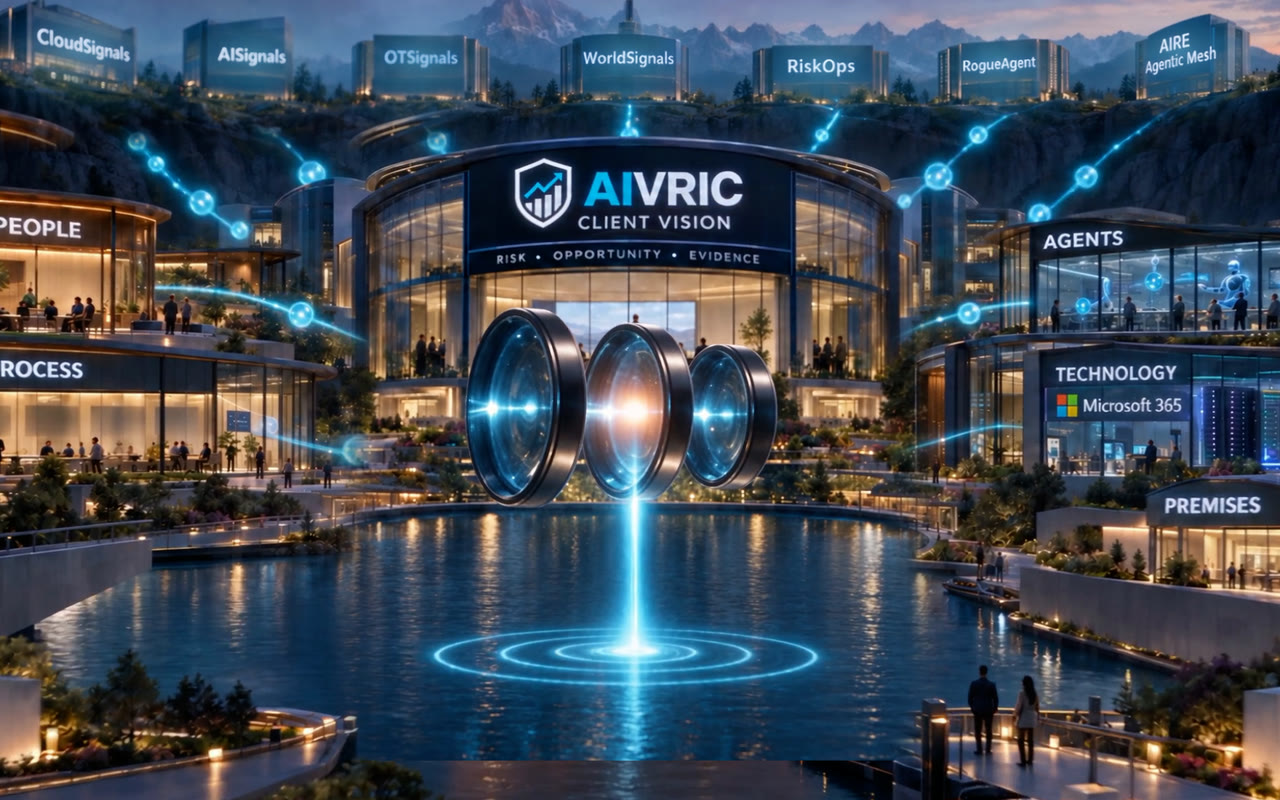
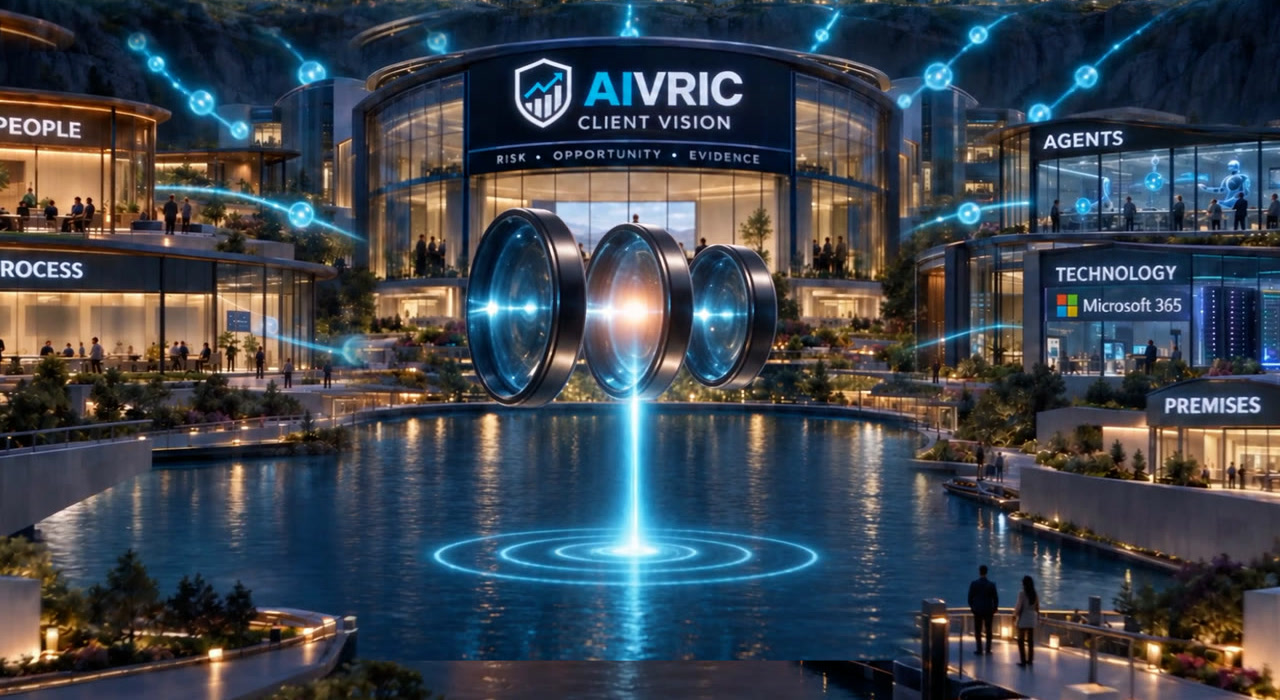
Hotfix: held names off four public surfaces: the /providers signal-city still loses its tower row (RogueAgent, OTSignals, WorldSignals); the Platform Guide FAQ's knowledge-base screenshot (RogueAgent, OTSignals, WorldSignals) removed; the Platform Guide overview's RogueAgent ASPM and Vision AI Optic

diff --git a/AiVRIC-UserGuide/platform-overview.html b/AiVRIC-UserGuide/platform-overview.html
@@ -55,7 +55,7 @@
         <a class="nav-link active" href="platform-overview.html">Platform Overview</a>
       </div>
       <div class="nav-section">
-        <p class="nav-label">CloudSignals+RiskOps</p>
+        <p class="nav-label">CloudSignals</p>
         <a class="nav-link" href="cloudsignals-riskops.html">Module Overview</a>
         <a class="nav-link" href="connectors.html">Connectors</a>
         <a class="nav-link" href="integrations.html">Integrations</a>
@@ -120,24 +120,16 @@
       <p>AiVRIC is composed of four interconnected modules deployed as containerized services on your Kubernetes cluster. All processing stays in your environment — no data leaves your control plane.</p>
       <div class="guide-grid">
         <div class="guide-card">
-          <h3>CloudSignals+RiskOps&trade;</h3>
+          <h3>CloudSignals</h3>
           <p>Continuous cloud posture monitoring, compliance automation, and AI-driven risk remediation across AWS, Azure, GCP, Kubernetes, and more.</p>
         </div>
         <div class="guide-card">
-          <h3>AI Signals&trade;</h3>
+          <h3>AISignals</h3>
           <p>Real-time detection of AI model misuse, shadow AI, prompt injection, PII leakage, and model drift across your AI workloads.</p>
         </div>
         <div class="guide-card">
           <h3>AIRE Agentic Mesh&trade;</h3>
           <p>Autonomous remediation engine that closes security gaps, raises tickets, and applies approved fixes without human handoff.</p>
-        </div>
-        <div class="guide-card">
-          <h3>RogueAgent ASPM&trade;</h3>
-          <p>Application Security Posture Management for agentic and AI-driven applications — tracks permissions, dependencies, and runtime behavior.</p>
-        </div>
-        <div class="guide-card">
-          <h3>Vision AI Optics&trade;</h3>
-          <p>AI/ML-powered threat intelligence and behavioral analytics that surface anomalies before they become incidents.</p>
         </div>
         <div class="guide-card">
           <h3>Shared Data Layer</h3>
@@ -147,10 +139,10 @@
 
       <!-- Screenshot: Live platform overview dashboard -->
       <figure class="ug-figure" onclick="openUgLightbox(this)" title="Click to expand">
-        <span class="ug-fig-chip"><i class="fas fa-circle" style="color:#2ee59d;"></i> CloudSignals+RiskOps — Live</span>
+        <span class="ug-fig-chip"><i class="fas fa-circle" style="color:#2ee59d;"></i> CloudSignals — Live</span>
         <span class="ug-fig-hint"><i class="fas fa-expand-alt"></i> Expand</span>
-        <img src="../academy/screenshots/overview-dashboard.png" alt="AiVRIC CloudSignals+RiskOps Command Center showing posture threat score, findings counts, threat map with global signal coverage, and control plane activity" loading="lazy">
-        <figcaption class="ug-figcaption"><strong>CloudSignals+RiskOps in operation</strong> — the module's command center shows the live threat score, active findings across all connected providers, threat map, and posture control plane panels updated every 24-hour scan cycle.</figcaption>
+        <img src="../academy/screenshots/overview-dashboard.png" alt="AiVRIC CloudSignals Command Center showing posture threat score, findings counts, threat map with global signal coverage, and control plane activity" loading="lazy">
+        <figcaption class="ug-figcaption"><strong>CloudSignals in operation</strong> — the module's command center shows the live threat score, active findings across all connected providers, threat map, and posture control plane panels updated every 24-hour scan cycle.</figcaption>
       </figure>
 
       <h2 id="connectors">Connectors</h2>
@@ -248,7 +240,7 @@
     (function(){
       var searchInput = document.getElementById('guide-search-input');
       var resultsBox  = document.getElementById('guide-search-results');
-      var pageIndex = [{"title": "Platform Guide Home", "url": "index.html"}, {"title": "Getting Started", "url": "getting-started.html"}, {"title": "Platform Overview", "url": "platform-overview.html"}, {"title": "CloudSignals+RiskOps Overview", "url": "cloudsignals-riskops.html"}, {"title": "Connectors", "url": "connectors.html"}, {"title": "Integrations", "url": "integrations.html"}, {"title": "Security & Trust", "url": "security-trust.html"}, {"title": "AI Governance", "url": "ai-governance.html"}, {"title": "Compliance Overview", "url": "compliance.html"}, {"title": "FAQ & Support", "url": "faq.html"}, {"title": "Insider Early Access", "url": "insider-early-access.html"}, {"title": "Cloud Security", "url": "cloud-security.html"}, {"title": "Network Security", "url": "network-security.html"}, {"title": "Endpoint Security", "url": "endpoint-security.html"}, {"title": "Identity & Access Control", "url": "identification-authorization-control.html"}, {"title": "Data Classification", "url": "data-classification-handling.html"}, {"title": "Data Privacy", "url": "data-privacy.html"}, {"title": "Incident Response", "url": "incident-response-operations.html"}, {"title": "Threat Management", "url": "threat-management.html"}, {"title": "Vulnerability & Patch Mgmt", "url": "vulnerability-patch-management.html"}, {"title": "Security Operations", "url": "security-operations.html"}, {"title": "Risk Assessment", "url": "risk-assessment.html"}, {"title": "Third-Party Management", "url": "third-party-management.html"}, {"title": "AI & Autonomous Technologies", "url": "ai-autonomous-technologies.html"}, {"title": "Secure Engineering Architecture", "url": "secure-engineering-architecture.html"}, {"title": "Web Security", "url": "web-security.html"}, {"title": "Asset Management", "url": "asset-management.html"}, {"title": "Cryptographic Operations", "url": "cryptographic-operations.html"}, {"title": "Information Assurance", "url": "information-assurance.html"}, {"title": "Acceptable Use Policy", "url": "acceptable-use-policy.html"}, {"title": "Business Continuity & DR", "url": "business-continuity-disaster-recovery.html"}, {"title": "Capacity & Performance Mgmt", "url": "capacity-performance-management.html"}, {"title": "Maintenance", "url": "maintenance.html"}, {"title": "Security Awareness & Training", "url": "security-awareness-training.html"}, {"title": "Mobile Device Management", "url": "mobile-device-management.html"}, {"title": "Physical & Environmental Security", "url": "physical-environmental-security.html"}, {"title": "HR Security", "url": "human-resources-security.html"}, {"title": "Project & Resource Management", "url": "project-resource-management.html"}, {"title": "Tech Dev & Acquisition", "url": "technology-development-acquisition.html"}, {"title": "Security & Privacy Governance", "url": "security-privacy-governance.html"}];
+      var pageIndex = [{"title": "Platform Guide Home", "url": "index.html"}, {"title": "Getting Started", "url": "getting-started.html"}, {"title": "Platform Overview", "url": "platform-overview.html"}, {"title": "CloudSignals Overview", "url": "cloudsignals-riskops.html"}, {"title": "Connectors", "url": "connectors.html"}, {"title": "Integrations", "url": "integrations.html"}, {"title": "Security & Trust", "url": "security-trust.html"}, {"title": "AI Governance", "url": "ai-governance.html"}, {"title": "Compliance Overview", "url": "compliance.html"}, {"title": "FAQ & Support", "url": "faq.html"}, {"title": "Insider Early Access", "url": "insider-early-access.html"}, {"title": "Cloud Security", "url": "cloud-security.html"}, {"title": "Network Security", "url": "network-security.html"}, {"title": "Endpoint Security", "url": "endpoint-security.html"}, {"title": "Identity & Access Control", "url": "identification-authorization-control.html"}, {"title": "Data Classification", "url": "data-classification-handling.html"}, {"title": "Data Privacy", "url": "data-privacy.html"}, {"title": "Incident Response", "url": "incident-response-operations.html"}, {"title": "Threat Management", "url": "threat-management.html"}, {"title": "Vulnerability & Patch Mgmt", "url": "vulnerability-patch-management.html"}, {"title": "Security Operations", "url": "security-operations.html"}, {"title": "Risk Assessment", "url": "risk-assessment.html"}, {"title": "Third-Party Management", "url": "third-party-management.html"}, {"title": "AI & Autonomous Technologies", "url": "ai-autonomous-technologies.html"}, {"title": "Secure Engineering Architecture", "url": "secure-engineering-architecture.html"}, {"title": "Web Security", "url": "web-security.html"}, {"title": "Asset Management", "url": "asset-management.html"}, {"title": "Cryptographic Operations", "url": "cryptographic-operations.html"}, {"title": "Information Assurance", "url": "information-assurance.html"}, {"title": "Acceptable Use Policy", "url": "acceptable-use-policy.html"}, {"title": "Business Continuity & DR", "url": "business-continuity-disaster-recovery.html"}, {"title": "Capacity & Performance Mgmt", "url": "capacity-performance-management.html"}, {"title": "Maintenance", "url": "maintenance.html"}, {"title": "Security Awareness & Training", "url": "security-awareness-training.html"}, {"title": "Mobile Device Management", "url": "mobile-device-management.html"}, {"title": "Physical & Environmental Security", "url": "physical-environmental-security.html"}, {"title": "HR Security", "url": "human-resources-security.html"}, {"title": "Project & Resource Management", "url": "project-resource-management.html"}, {"title": "Tech Dev & Acquisition", "url": "technology-development-acquisition.html"}, {"title": "Security & Privacy Governance", "url": "security-privacy-governance.html"}];
       var pageCache = {};
 
       function sanitize(t){ return t.replace(/[<>]/g, function(c){ return c==='<'?'&lt;':'&gt;'; }); }

diff --git a/assets/blog-managing-healthcare-risk/index.html b/assets/blog-managing-healthcare-risk/index.html
@@ -277,12 +277,12 @@ body.ba-page{background:var(--ba-bg);color:var(--ba-text);font-family:'Inter',sy
                     </div>
                 </div>
             </li>
-            <li class="dropdown cs-product-menu"><a href="../../cspm-cloudsignals.html">CloudSignals+RiskOps</a>
+            <li class="dropdown cs-product-menu"><a href="../../cspm-cloudsignals.html">CloudSignals</a>
                 <div class="cs-product-megamenu">
                     <div class="cs-mega-hdr">
                         <div class="cs-mega-hdr-info">
                             <span class="cs-mega-status"><span class="cs-avail-dot"></span>Available Now</span>
-                            <h3>CloudSignals+RiskOps&trade;</h3>
+                            <h3>CloudSignals</h3>
                             <p>AI-native cloud security posture, risk operations, and continuous compliance &mdash; in one platform.</p>
                         </div>
                         <a href="../../cloudsignals-pricing.html" class="cs-mega-pricing-cta">Compare plans &amp; pricing &rarr;</a>
@@ -302,7 +302,7 @@ body.ba-page{background:var(--ba-bg);color:var(--ba-text);font-family:'Inter',sy
                         <div class="cs-mega-col">
                             <span class="cs-mega-col-label">Intelligence</span>
                             <a class="cs-mega-feat-card" href="../../cloudsignals-vision-ai.html"><i class="fas fa-brain"></i><div><strong>Vision AI &amp; Narratives</strong><span>GenAI risk summaries, AI chat, and model insights.</span></div></a>
-                            <a class="cs-mega-feat-card" href="../../ai-inspector.html"><i class="fas fa-satellite-dish"></i><div><strong>AI Signals&trade; Integration</strong><span>LLM telemetry as security-native compliance signals.</span></div></a>
+                            <a class="cs-mega-feat-card" href="../../ai-inspector.html"><i class="fas fa-satellite-dish"></i><div><strong>AISignals Integration</strong><span>LLM telemetry as security-native compliance signals.</span></div></a>
                         </div>
                     </div>
                     <div class="cs-mega-ftr">
@@ -340,11 +340,11 @@ body.ba-page{background:var(--ba-bg);color:var(--ba-text);font-family:'Inter',sy
                             </button>
                         </div>
                         <div class="mega-grid">
-                            <a class="mega-card" data-mega-category="defense" href="../../cspm-cloudsignals.html"><strong>CloudSignals+ RiskOps&trade;</strong><span>Scan all your cloud platform configs.</span></a>
-                            <a class="mega-card" data-mega-category="defense" href="../../ai-inspector.html"><strong>AI Signals&trade;</strong><span>LLM observability, evaluations, and prompt management for AI apps.</span></a>
+                            <a class="mega-card" data-mega-category="defense" href="../../cspm-cloudsignals.html"><strong>CloudSignals</strong><span>Scan all your cloud platform configs.</span></a>
+                            <a class="mega-card" data-mega-category="defense" href="../../ai-inspector.html"><strong>AISignals</strong><span>LLM observability, evaluations, and prompt management for AI apps.</span></a>
                             <a class="mega-card" data-mega-category="defense" href="../../air-remediation.html"><strong>AIRE Agentic Mesh&trade;</strong><span>Agentic role-based remediation agents.</span></a>
                             <a class="mega-card" data-mega-category="offense" href="../../rogueagent.html"><strong>RogueAgent ASPM&trade;</strong><span>Analyze cloud posture using a risk lens.</span></a>
-                            <a class="mega-card" data-mega-category="vision" href="../../aivric-vision-professional.html"><strong>Vision AI Optics&trade;</strong><span>OpenAI-driven AI risk analysis and reporting.</span></a>
+                            <a class="mega-card" data-mega-category="vision" href="../../aivric-vision-professional.html"><strong>Vision</strong><span>OpenAI-driven AI risk analysis and reporting.</span></a>
                         </div>
                     </div>
                     <div class="mega-panel mega-panel-static" data-mega-tabpanel="usecase" data-mega-active="compliance" role="tabpanel" hidden>
@@ -537,7 +537,7 @@ body.ba-page{background:var(--ba-bg);color:var(--ba-text);font-family:'Inter',sy
 
     <p>AiVRIC connects cloud telemetry, AI evaluations, and compliance evidence into a single fabric so healthcare security and risk leaders can manage both technical controls and procurement-ready requirements from one platform.</p>
 
-    <h3 id="cloudsignals">CloudSignals+RiskOps™ for Continuous Posture</h3>
+    <h3 id="cloudsignals">CloudSignals for Continuous Posture</h3>
 
     <p>CloudSignals continuously evaluates cloud configurations across AWS, Azure, and GCP against healthcare-aligned controls. It maps misconfigurations to HIPAA Security Rule requirements, NIST SP 800-66 Rev. 2, SOC 2, and ISO 27001 simultaneously — giving compliance teams a single view of technical risk across their entire cloud estate.</p>
 
@@ -548,13 +548,13 @@ body.ba-page{background:var(--ba-bg);color:var(--ba-text);font-family:'Inter',sy
       <li>Audit logging completeness across every connected account</li>
     </ul>
 
-    <h3 id="ai-signals">AI Signals™ for Model Inspection and Controls</h3>
+    <h3 id="ai-signals">AISignals for Model Inspection and Controls</h3>
 
-    <p>AI Signals provides observability, prompt governance, and evaluation workflows for AI applications deployed in healthcare environments. Security and compliance teams gain governance-ready reporting that supports clinical leadership review, board-level risk discussions, and regulatory inquiries.</p>
+    <p>AISignals provides observability, prompt governance, and evaluation workflows for AI applications deployed in healthcare environments. Security and compliance teams gain governance-ready reporting that supports clinical leadership review, board-level risk discussions, and regulatory inquiries.</p>
 
     <div class="ba-img-block">
       <img src="../../assets/images/blog/ai-active-scanning.avif" alt="AI model inspection in healthcare">
-      <div class="ba-img-caption">AI Signals™ tracks model behavior, prompt governance, and evaluation scores over time — providing the audit trail regulators expect.</div>
+      <div class="ba-img-caption">AISignals tracks model behavior, prompt governance, and evaluation scores over time — providing the audit trail regulators expect.</div>
     </div>
 
     <h3 id="grc">GRC Management and Cyber RiskOps</h3>
@@ -597,7 +597,7 @@ body.ba-page{background:var(--ba-bg);color:var(--ba-text);font-family:'Inter',sy
       <div class="ba-step">
         <div class="ba-step-num">2</div>
         <div class="ba-step-body">
-          <h5>Instrument AI applications with AI Signals™</h5>
+          <h5>Instrument AI applications with AISignals</h5>
           <p>Add OpenTelemetry-compatible instrumentation to AI applications to begin capturing prompt-level observability and model evaluation metrics.</p>
         </div>
       </div>
@@ -644,8 +644,8 @@ body.ba-page{background:var(--ba-bg);color:var(--ba-text);font-family:'Inter',sy
       <ul class="ba-toc">
         <li><a href="#risk-drivers">Healthcare Risk Drivers</a></li>
         <li><a href="#aivric-approach">The AiVRIC Approach</a></li>
-        <li><a href="#cloudsignals">CloudSignals+RiskOps™</a></li>
-        <li><a href="#ai-signals">AI Signals™</a></li>
+        <li><a href="#cloudsignals">CloudSignals</a></li>
+        <li><a href="#ai-signals">AISignals</a></li>
         <li><a href="#grc">GRC &amp; RiskOps</a></li>
         <li><a href="#deployment">Deployment Models</a></li>
         <li><a href="#procurement-outcomes">Procurement Outcomes</a></li>
@@ -753,11 +753,11 @@ body.ba-page{background:var(--ba-bg);color:var(--ba-text);font-family:'Inter',sy
                 <div class="gf-col">
                   <div class="gf-col-title">Solutions</div>
                   <ul class="gf-links">
-                    <li><a href="../../cspm-cloudsignals.html">CloudSignals+RiskOps&trade;</a></li>
-                    <li><a href="../../ai-inspector.html">AI Signals&trade;</a></li>
+                    <li><a href="../../cspm-cloudsignals.html">CloudSignals</a></li>
+                    <li><a href="../../ai-inspector.html">AISignals</a></li>
                     <li><a href="../../air-remediation.html">AIRE Agentic Mesh&trade;</a></li>
                     <li><a href="../../rogueagent.html">RogueAgent ASPM&trade;</a></li>
-                    <li><a href="../../aivric-vision-professional.html">Vision AI Optics&trade;</a></li>
+                    <li><a href="../../aivric-vision-professional.html">Vision</a></li>
                     <li><a href="../../aivric-vision-enterprise.html">Vision Enterprise</a></li>
                     <li><a href="../../solutions-portal.html">All Products &rarr;</a></li>
                   </ul>

diff --git a/AiVRIC-UserGuide/faq.html b/AiVRIC-UserGuide/faq.html
@@ -55,7 +55,7 @@
         <a class="nav-link" href="platform-overview.html">Platform Overview</a>
       </div>
       <div class="nav-section">
-        <p class="nav-label">CloudSignals+RiskOps</p>
+        <p class="nav-label">CloudSignals</p>
         <a class="nav-link" href="cloudsignals-riskops.html">Module Overview</a>
         <a class="nav-link" href="connectors.html">Connectors</a>
         <a class="nav-link" href="integrations.html">Integrations</a>
@@ -141,7 +141,7 @@
       </div>
       <div class="guide-card" style="margin-bottom:10px">
         <h3>What compliance frameworks are supported?</h3>
-        <p>CloudSignals+RiskOps includes pre-built control mappings for SOC 2, ISO 27001, PCI DSS, HIPAA, NIST CSF, CIS Benchmarks, CMMC, and GDPR. Custom frameworks can be authored in YAML.</p>
+        <p>CloudSignals includes pre-built control mappings for SOC 2, ISO 27001, PCI DSS, HIPAA, NIST CSF, CIS Benchmarks, CMMC, and GDPR. Custom frameworks can be authored in YAML.</p>
       </div>
 
       <h2 id="billing">Billing &amp; plans</h2>
@@ -208,12 +208,7 @@
         <img src="../academy/screenshots/api-docs.png" alt="CloudSignals API documentation showing REST API endpoints, token authentication, request/response schema, and code samples" loading="lazy">
         <figcaption class="ug-figcaption"><strong>REST API Reference</strong> — full programmatic access to findings, policies, scans, workspaces, and connector status. Interactive documentation at <a href="https://cloudsignals.aivric.com/api/v1/docs" target="_blank">cloudsignals.aivric.com/api/v1/docs</a>.</figcaption>
       </figure>
-        <figure class="ug-figure" onclick="openUgLightbox(this)" title="Click to expand">
-        <span class="ug-fig-chip"><i class="fas fa-circle" style="color:#2ee59d;"></i> docs.aivric.com</span>
-        <span class="ug-fig-hint"><i class="fas fa-expand-alt"></i> Expand</span>
-        <img src="../academy/screenshots/docs-site.png" alt="AiVRIC Platform Knowledge Base showing CloudSignals, AISignals, OTSignals, WorldSignals, RogueAgent, and AIRE Agentic Mesh sections" loading="lazy">
-        <figcaption class="ug-figcaption"><strong>Knowledge Base</strong> — the AiVRIC platform knowledge base at <a href="https://docs.aivric.com" target="_blank">docs.aivric.com</a> covers CloudSignals+RiskOps workflows, providers, RiskOps, integrations, and automation.</figcaption>
-      </figure>
+
       </div>
         
       <figure class="ug-figure" onclick="openUgLightbox(this)" title="Click to expand">
@@ -245,7 +240,7 @@
     (function(){
       var searchInput = document.getElementById('guide-search-input');
       var resultsBox  = document.getElementById('guide-search-results');
-      var pageIndex = [{"title": "Platform Guide Home", "url": "index.html"}, {"title": "Getting Started", "url": "getting-started.html"}, {"title": "Platform Overview", "url": "platform-overview.html"}, {"title": "CloudSignals+RiskOps Overview", "url": "cloudsignals-riskops.html"}, {"title": "Connectors", "url": "connectors.html"}, {"title": "Integrations", "url": "integrations.html"}, {"title": "Security & Trust", "url": "security-trust.html"}, {"title": "AI Governance", "url": "ai-governance.html"}, {"title": "Compliance Overview", "url": "compliance.html"}, {"title": "FAQ & Support", "url": "faq.html"}, {"title": "Insider Early Access", "url": "insider-early-access.html"}, {"title": "Cloud Security", "url": "cloud-security.html"}, {"title": "Network Security", "url": "network-security.html"}, {"title": "Endpoint Security", "url": "endpoint-security.html"}, {"title": "Identity & Access Control", "url": "identification-authorization-control.html"}, {"title": "Data Classification", "url": "data-classification-handling.html"}, {"title": "Data Privacy", "url": "data-privacy.html"}, {"title": "Incident Response", "url": "incident-response-operations.html"}, {"title": "Threat Management", "url": "threat-management.html"}, {"title": "Vulnerability & Patch Mgmt", "url": "vulnerability-patch-management.html"}, {"title": "Security Operations", "url": "security-operations.html"}, {"title": "Risk Assessment", "url": "risk-assessment.html"}, {"title": "Third-Party Management", "url": "third-party-management.html"}, {"title": "AI & Autonomous Technologies", "url": "ai-autonomous-technologies.html"}, {"title": "Secure Engineering Architecture", "url": "secure-engineering-architecture.html"}, {"title": "Web Security", "url": "web-security.html"}, {"title": "Asset Management", "url": "asset-management.html"}, {"title": "Cryptographic Operations", "url": "cryptographic-operations.html"}, {"title": "Information Assurance", "url": "information-assurance.html"}, {"title": "Acceptable Use Policy", "url": "acceptable-use-policy.html"}, {"title": "Business Continuity & DR", "url": "business-continuity-disaster-recovery.html"}, {"title": "Capacity & Performance Mgmt", "url": "capacity-performance-management.html"}, {"title": "Maintenance", "url": "maintenance.html"}, {"title": "Security Awareness & Training", "url": "security-awareness-training.html"}, {"title": "Mobile Device Management", "url": "mobile-device-management.html"}, {"title": "Physical & Environmental Security", "url": "physical-environmental-security.html"}, {"title": "HR Security", "url": "human-resources-security.html"}, {"title": "Project & Resource Management", "url": "project-resource-management.html"}, {"title": "Tech Dev & Acquisition", "url": "technology-development-acquisition.html"}, {"title": "Security & Privacy Governance", "url": "security-privacy-governance.html"}];
+      var pageIndex = [{"title": "Platform Guide Home", "url": "index.html"}, {"title": "Getting Started", "url": "getting-started.html"}, {"title": "Platform Overview", "url": "platform-overview.html"}, {"title": "CloudSignals Overview", "url": "cloudsignals-riskops.html"}, {"title": "Connectors", "url": "connectors.html"}, {"title": "Integrations", "url": "integrations.html"}, {"title": "Security & Trust", "url": "security-trust.html"}, {"title": "AI Governance", "url": "ai-governance.html"}, {"title": "Compliance Overview", "url": "compliance.html"}, {"title": "FAQ & Support", "url": "faq.html"}, {"title": "Insider Early Access", "url": "insider-early-access.html"}, {"title": "Cloud Security", "url": "cloud-security.html"}, {"title": "Network Security", "url": "network-security.html"}, {"title": "Endpoint Security", "url": "endpoint-security.html"}, {"title": "Identity & Access Control", "url": "identification-authorization-control.html"}, {"title": "Data Classification", "url": "data-classification-handling.html"}, {"title": "Data Privacy", "url": "data-privacy.html"}, {"title": "Incident Response", "url": "incident-response-operations.html"}, {"title": "Threat Management", "url": "threat-management.html"}, {"title": "Vulnerability & Patch Mgmt", "url": "vulnerability-patch-management.html"}, {"title": "Security Operations", "url": "security-operations.html"}, {"title": "Risk Assessment", "url": "risk-assessment.html"}, {"title": "Third-Party Management", "url": "third-party-management.html"}, {"title": "AI & Autonomous Technologies", "url": "ai-autonomous-technologies.html"}, {"title": "Secure Engineering Architecture", "url": "secure-engineering-architecture.html"}, {"title": "Web Security", "url": "web-security.html"}, {"title": "Asset Management", "url": "asset-management.html"}, {"title": "Cryptographic Operations", "url": "cryptographic-operations.html"}, {"title": "Information Assurance", "url": "information-assurance.html"}, {"title": "Acceptable Use Policy", "url": "acceptable-use-policy.html"}, {"title": "Business Continuity & DR", "url": "business-continuity-disaster-recovery.html"}, {"title": "Capacity & Performance Mgmt", "url": "capacity-performance-management.html"}, {"title": "Maintenance", "url": "maintenance.html"}, {"title": "Security Awareness & Training", "url": "security-awareness-training.html"}, {"title": "Mobile Device Management", "url": "mobile-device-management.html"}, {"title": "Physical & Environmental Security", "url": "physical-environmental-security.html"}, {"title": "HR Security", "url": "human-resources-security.html"}, {"title": "Project & Resource Management", "url": "project-resource-management.html"}, {"title": "Tech Dev & Acquisition", "url": "technology-development-acquisition.html"}, {"title": "Security & Privacy Governance", "url": "security-privacy-governance.html"}];
       var pageCache = {};
 
       function sanitize(t){ return t.replace(/[<>]/g, function(c){ return c==='<'?'&lt;':'&gt;'; }); }

diff --git a/providers/index.html b/providers/index.html
@@ -288,7 +288,7 @@
                 </p>
               </div>
               <figure class="cvh-feeds-shot">
-                <img src="../assets/cv-hero/v1/media/feeds-connections.jpg" alt="The AiVRIC signal city from the AiVRIC journey film: signal towers lit around the Client Vision building" width="1280" height="800" loading="lazy" decoding="async" />
+                <img src="../assets/cv-hero/v1/media/feeds-connections.jpg" alt="The AiVRIC signal city from the AiVRIC journey film: people, process, agents, technology and premises lit around the Client Vision building" width="1280" height="700" loading="lazy" decoding="async" />
                 <figcaption>From the AiVRIC journey film.</figcaption>
               </figure>
             </div>
